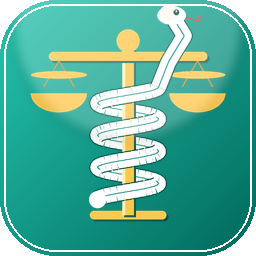
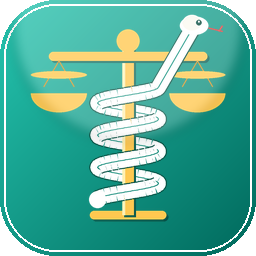
fix(ikon): yılan kafası spiralden tam 60° eğimle düz çıksın
- Son kıvrımdan başlayan boyun, yatayla 60° açıyla düz çizgi
- Kafa merkezi kolun üstünde ~boyun+kafa boyu kadar yukarıda

Changed region(s): [[0.5938, 0.0, 0.875, 0.3438]]

diff --git a/assets/ikon_varyasyonlar.py b/assets/ikon_varyasyonlar.py
@@ -461,21 +461,17 @@ def v3(boyut: int = 256) -> Image.Image:
     tabak(kol_x2 - int(B * 0.04))
 
     # --- Katman 6: Kafa bağlantısı + kafa (EN ÜSTTE) ---
-    # Spiralin son noktası sağ yanda (cx+amp, ust_y).
-    # Kafa çapraz sağa-yukarı uzanıyor, kol üzerinden atlayıp
-    # topuzun sağından geçerek yukarı çıkıyor.
+    # Spiralin son kıvrımından yatayla tam 60° eğim ile DÜZ bir çizgi.
+    # Kafa kolun üstünde, ~boyun+kafa boyu kadar yukarıda.
     son = noktalar[-1]
-    kafa_boyun = [
-        (son[0], son[1]),
-        (cx + int(B * 0.16), int(B * 0.24)),   # kolun sağ ucu yakını, çapraz
-        (cx + int(B * 0.22), int(B * 0.14)),   # topuz hizası, sağında
-        (cx + int(B * 0.17), int(B * 0.06)),   # çapraz yukarı → kafa
-    ]
+    kafa_y = int(B * 0.10)
+    dy = son[1] - kafa_y
+    dx = int(dy / math.tan(math.radians(60)))
+    kafa_x = son[0] + dx
+    kafa_boyun = [(son[0], son[1]), (kafa_x, kafa_y)]
     cizgi(kafa_boyun)
-
-    kx, ky = kafa_boyun[-1]
-    _yilan_kafa(d, kx, ky, int(y_kalin * 1.9), int(y_kalin * 1.25),
-                yon="sag")
+    _yilan_kafa(d, kafa_x, kafa_y,
+                int(y_kalin * 1.9), int(y_kalin * 1.25), yon="sag")
 
     sahne = layer.resize((boyut, boyut), Image.LANCZOS)
     return _bitir(img, sahne, radius)

diff --git a/assets/ikon_olustur.py b/assets/ikon_olustur.py
@@ -242,17 +242,17 @@ def ikon_ciz(boyut):
     tabak(kol_x2 - int(B * 0.04))
 
     # Kafa bağlantısı + kafa
+    # Spiralin son kıvrımından düz 60° eğimle sağa-yukarı.
+    # Kafa merkezi, kolun üstünde ~boyun+kafa boyu kadar yukarıda.
     son = noktalar[-1]
-    kafa_boyun = [
-        (son[0], son[1]),
-        (cx + int(B * 0.16), int(B * 0.24)),
-        (cx + int(B * 0.22), int(B * 0.14)),
-        (cx + int(B * 0.17), int(B * 0.06)),
-    ]
+    kafa_y = int(B * 0.10)
+    dy = son[1] - kafa_y
+    dx = int(dy / math.tan(math.radians(60)))   # yataya göre 60° → dik çapraz
+    kafa_x = son[0] + dx
+    kafa_boyun = [(son[0], son[1]), (kafa_x, kafa_y)]
     cizgi(kafa_boyun)
-    kx, ky = kafa_boyun[-1]
-    _yilan_kafa(d, kx, ky, int(y_kalin * 1.9), int(y_kalin * 1.25),
-                yon="sag")
+    _yilan_kafa(d, kafa_x, kafa_y,
+                int(y_kalin * 1.9), int(y_kalin * 1.25), yon="sag")
 
     sahne = layer.resize((boyut, boyut), Image.LANCZOS)
     img = Image.alpha_composite(img, sahne)